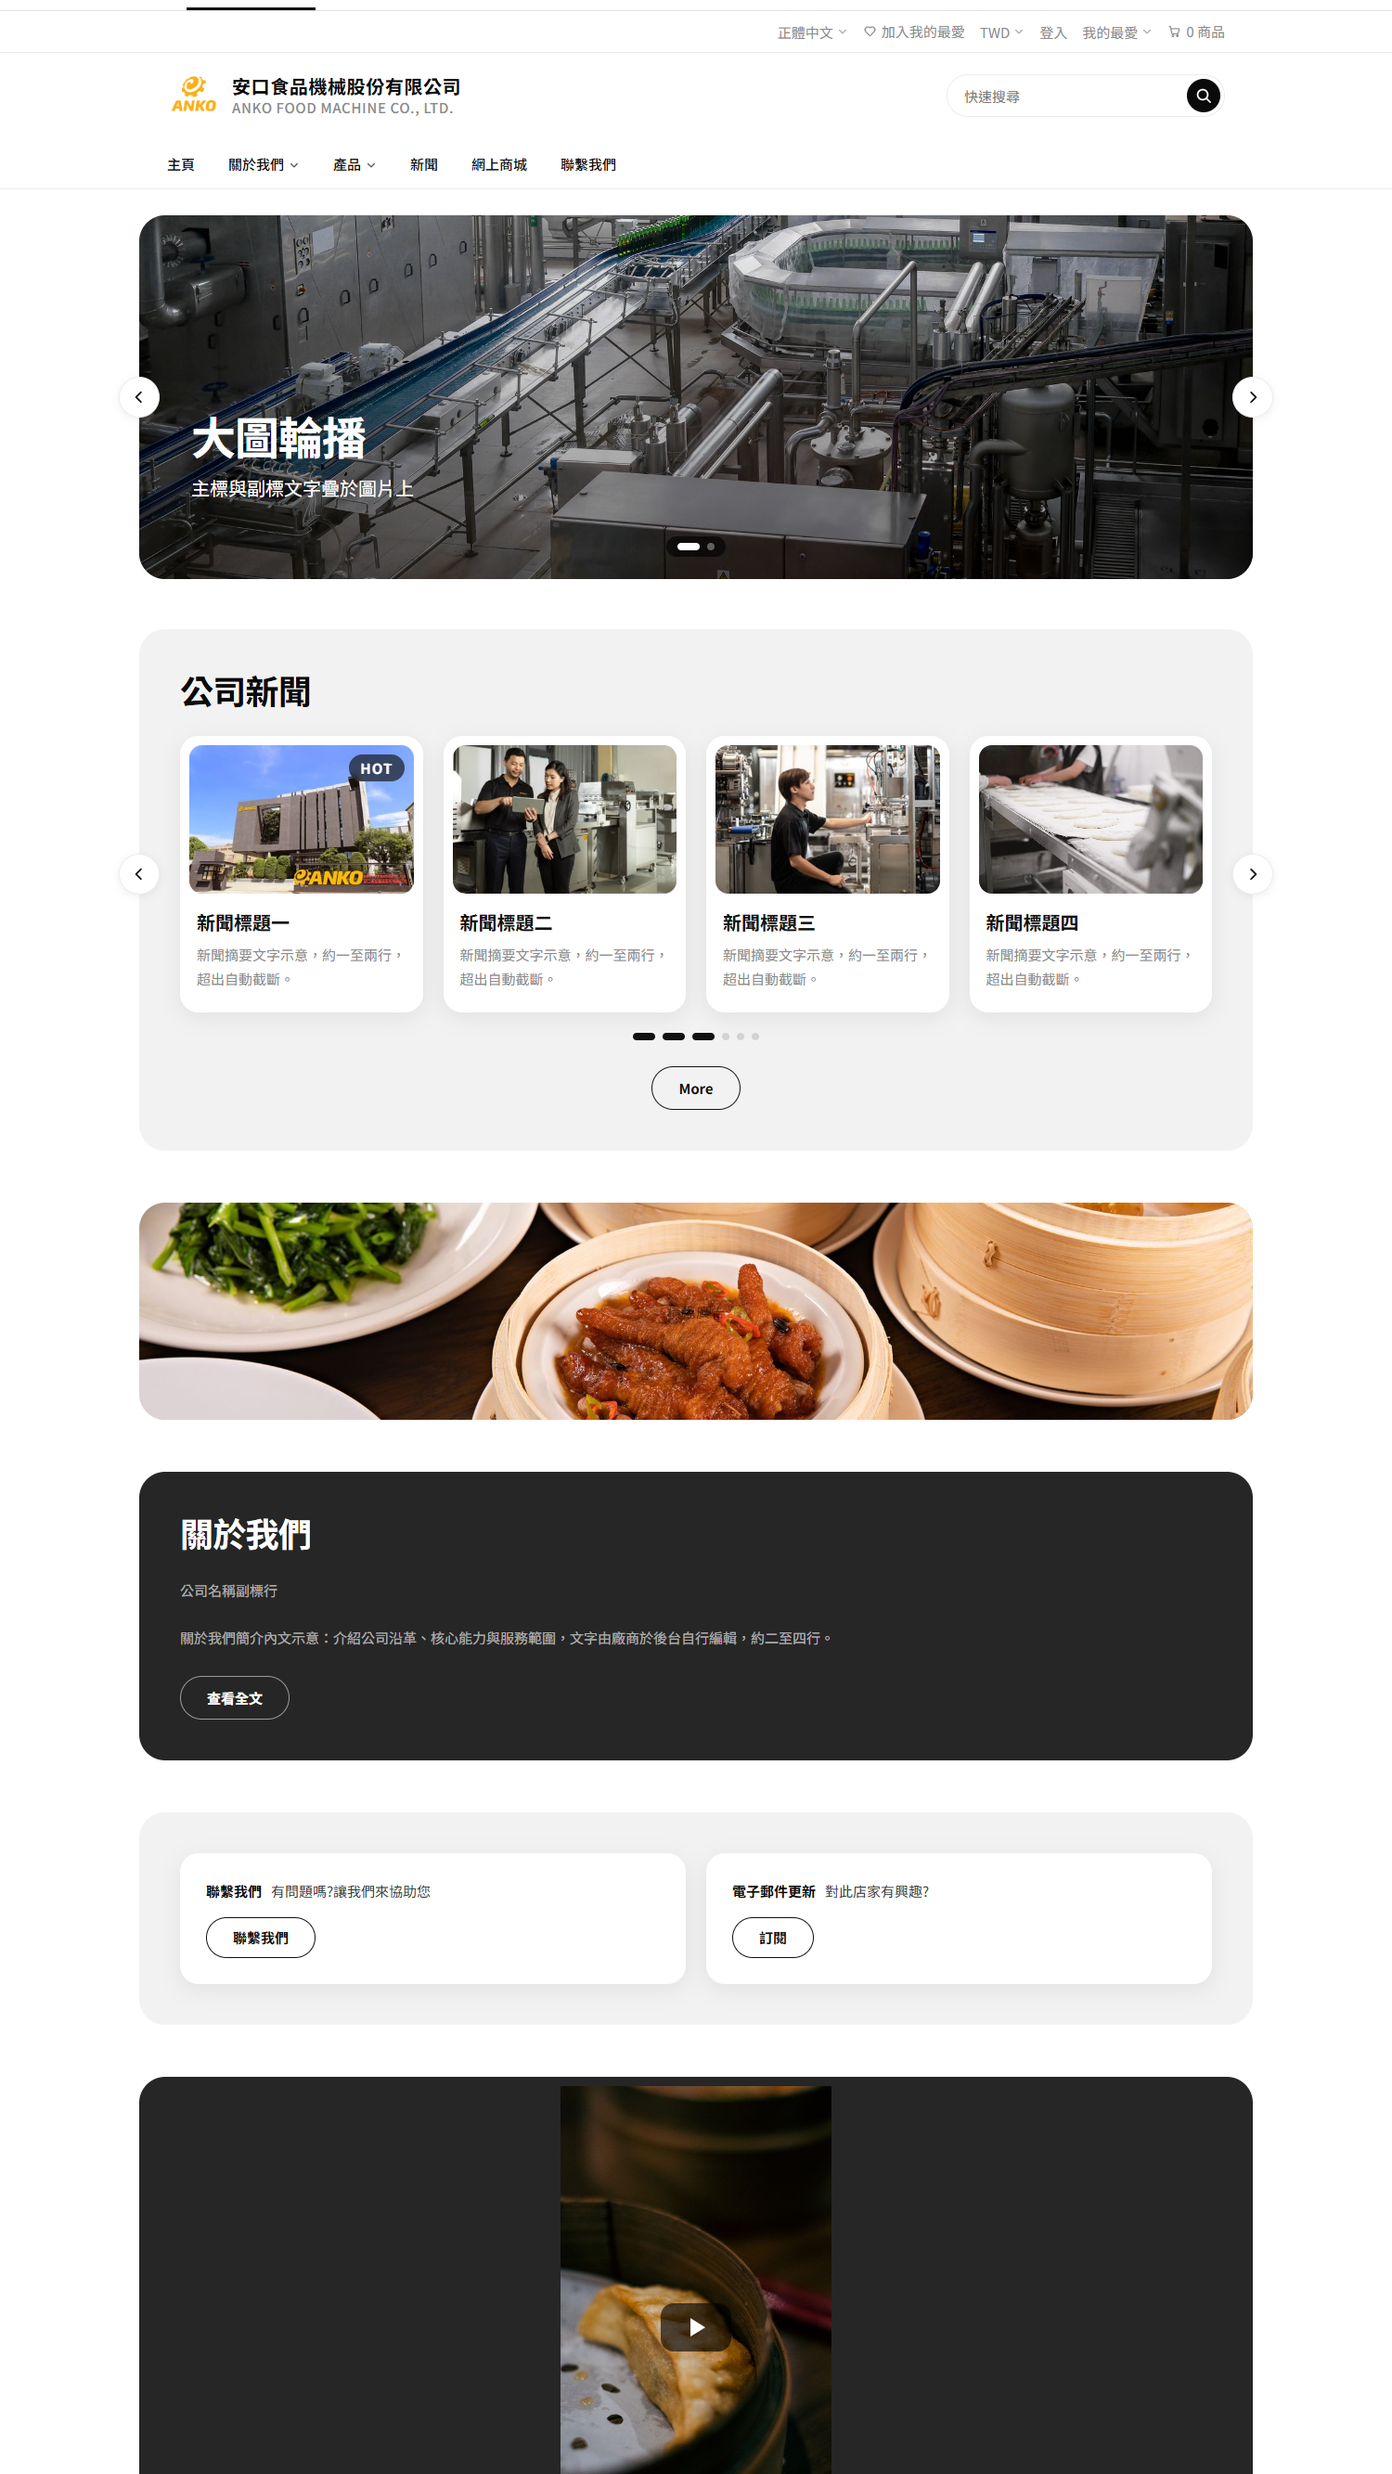
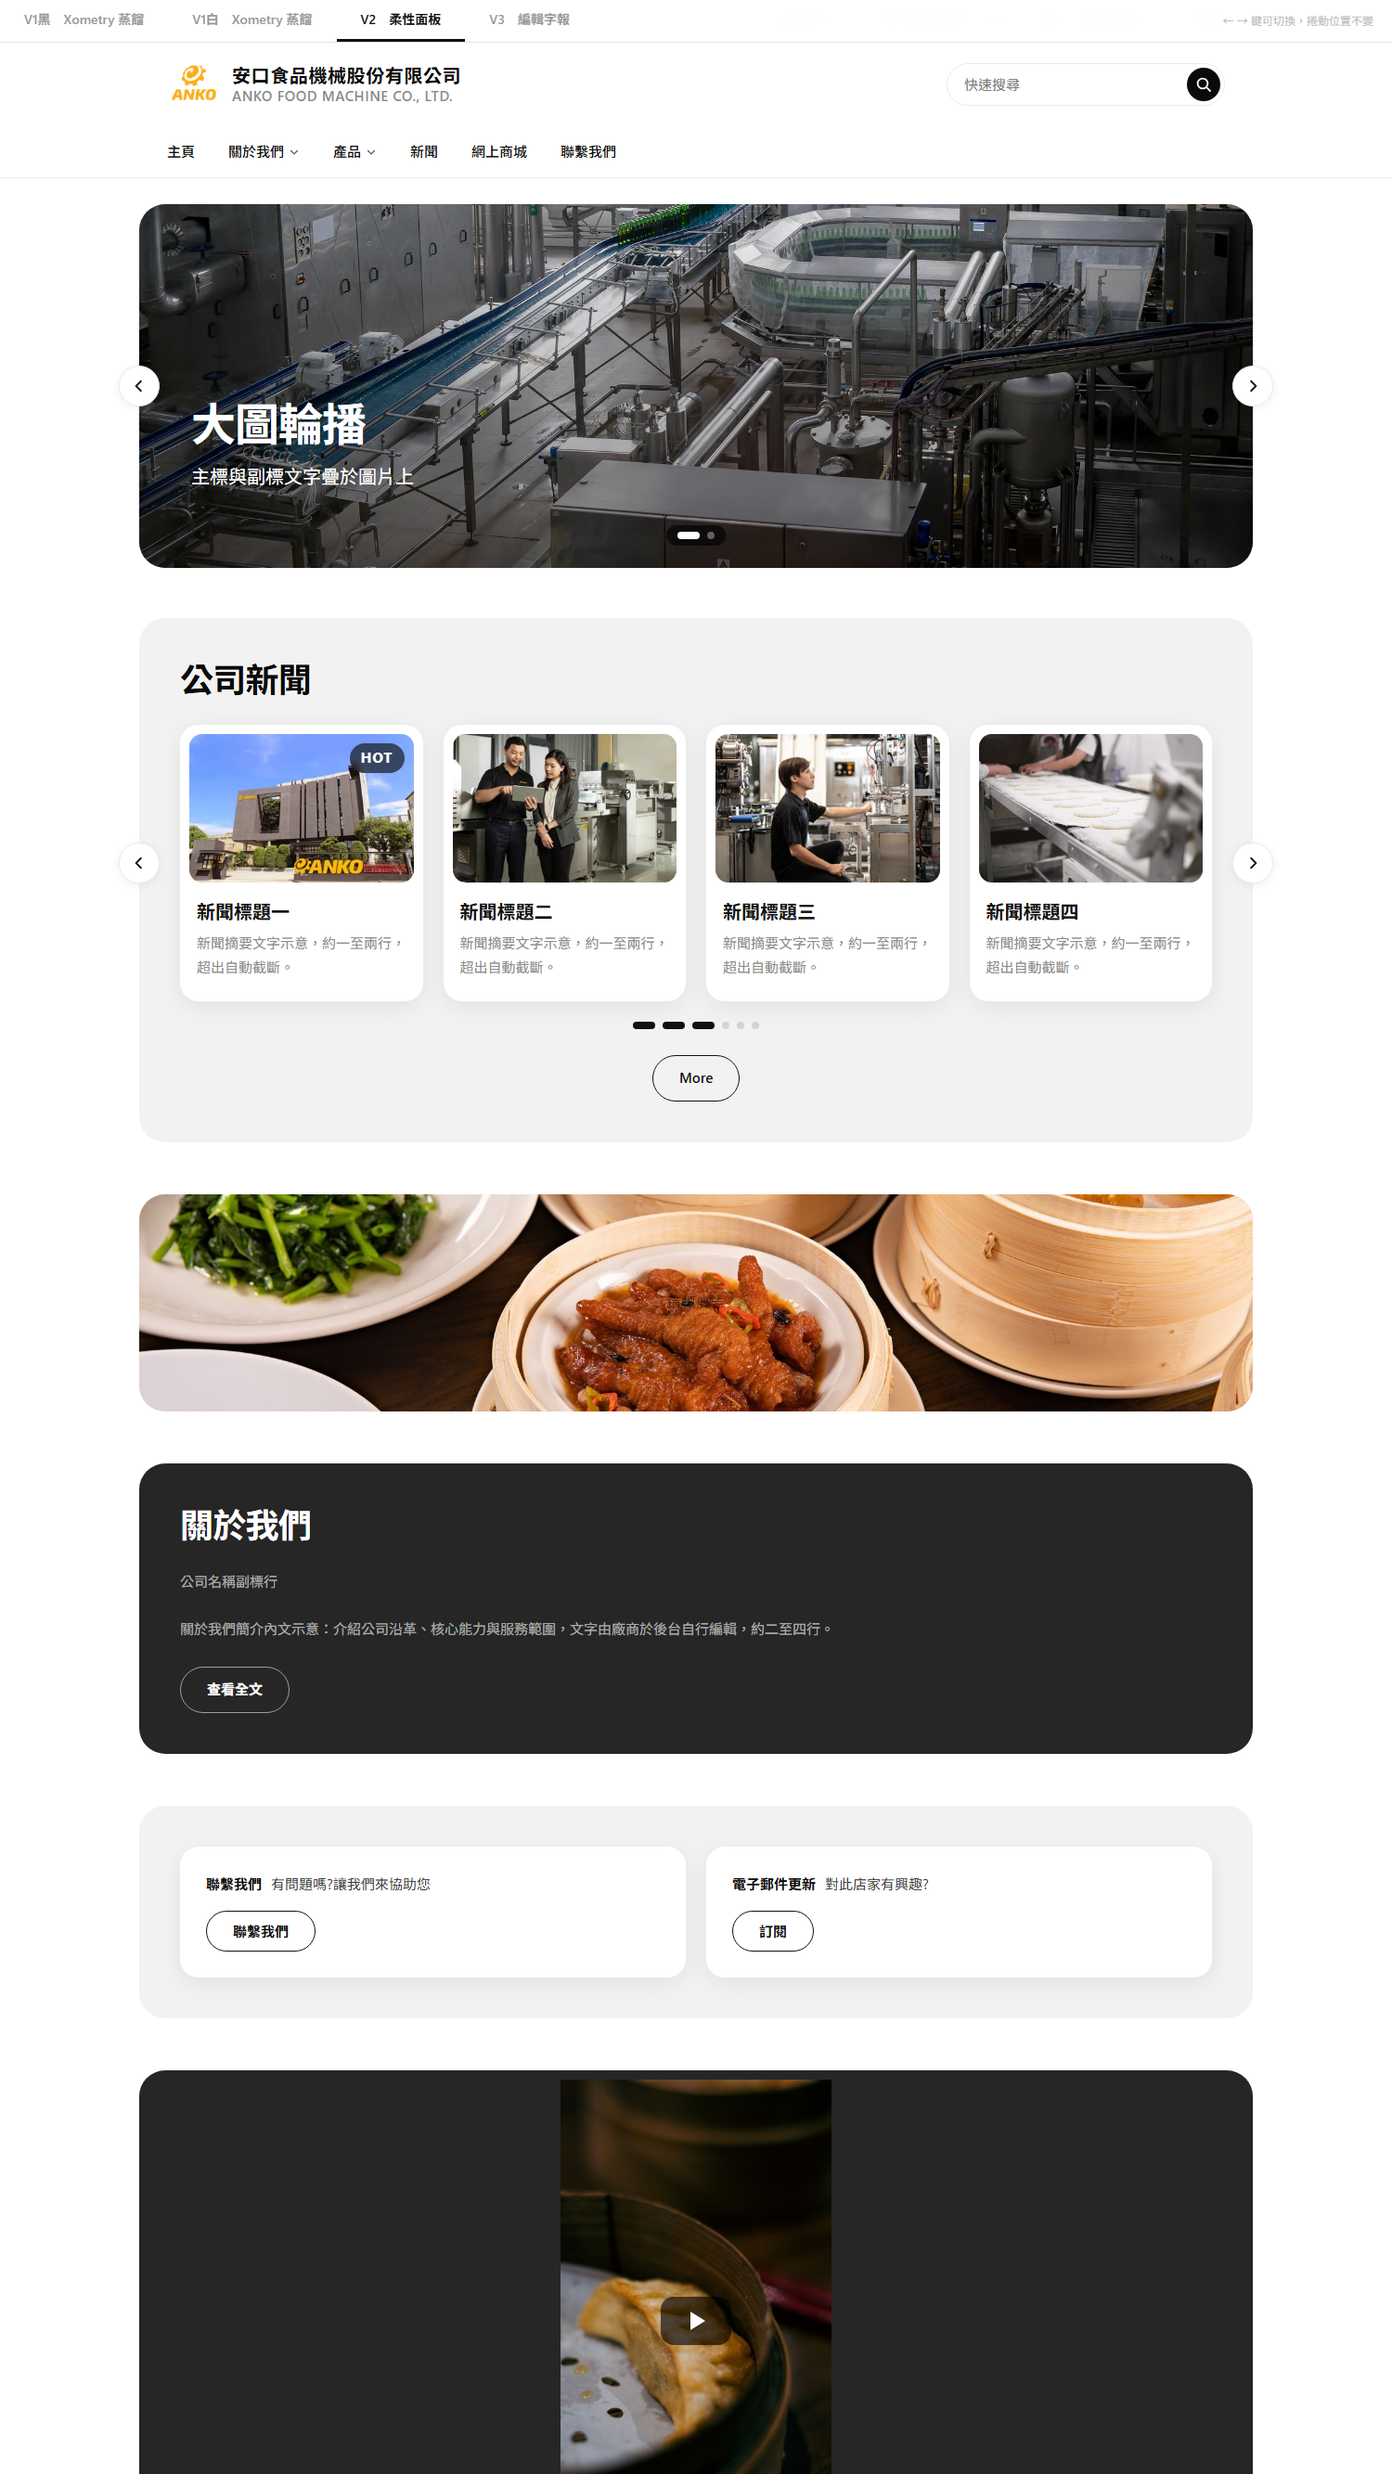
ep-demo/slides：0728 訪談簡報改四版定版上線——11 頁（P4 蒸餾三條＋V1黑白雙縮圖、P7 新增 V3 編輯字報、P8 四選項卡＋四縮圖、P9 對照 12 列×V1/V2/V3、P10 題10 五選項）；縮圖改 S1b/S1w/S2/S3（自四版合一 demo 產出），舊 S1 刪

diff --git a/ep-demo/slides/index.html b/ep-demo/slides/index.html
@@ -67,7 +67,7 @@ th{background:#F5F5F5;font-weight:700}
   <div style="flex:1;display:flex;flex-direction:column">
     <div style="flex:1">
       <p class="t4 mut b" style="margin-bottom:14px">今天談</p>
-      <p class="t3">1. 新版型風格設計（兩個版本選一版）<br>2. 新 Header＋Footer<br>3. 現有元件強化（多媒體／產品展示／圖文範本）<br>4. 新元件（聯絡我們商機表單）</p>
+      <p class="t3">1. 新版型風格設計（三款版型挑方向）<br>2. 新 Header＋Footer<br>3. 現有元件強化（多媒體／產品展示／圖文範本）<br>4. 新元件（聯絡我們商機表單）</p>
     </div>
     <div style="border-top:1px solid #E5E5E5;padding-top:28px">
       <p class="t4 mut b" style="margin-bottom:14px">之後談</p>
@@ -82,15 +82,25 @@ th{background:#F5F5F5;font-weight:700}
   <p class="t3">1. 新版型風格設計<br>2. 新 Header＋Footer 設計<br>3. 現有 8 元件配合調整<br>4. YT Short 可在首頁播放（多媒體輪播）<br>5. 產品展示 tab 呈現<br>6. 圖文模板新範本（CTA 樣式一／二＋數據統計）<br>7. Contact us 表單元件（聯絡電話＋商機表單）</p>
 </section>
 
-<!-- P4 V1｜字級 32/20 -->
+<!-- P4 V1｜字級 32/20/14 -->
 <section class="slide">
   <h2 class="pt">V1：Xometry 的黑白轉譯</h2>
-  <div style="flex:1;display:flex;gap:64px;align-items:flex-start">
+  <div style="flex:1;display:flex;gap:56px;align-items:flex-start">
     <div style="flex:1">
       <p class="t3 b" style="margin-bottom:20px">參考 Xometry 蒸餾出的設計邏輯：</p>
-      <p class="t3">1. 區塊之間不畫線，用滿版底色和留白切段<br>2. 標題置中開場、卡片內文字靠左<br>3. 滿版色帶直角，圓角只給卡片與按鈕</p>
+      <p class="t3">1. 亮暗色帶交錯分段，深色帶當重音<br>2. 卡片用陰影浮起，整頁不畫框線<br>3. 標題置中開場、卡片內文字靠左</p>
+      <p class="t4 mut" style="margin-top:20px">本版有黑、白兩種色帶配置，現場切換比較</p>
     </div>
-    <div class="shot" style="width:281px;height:500px"><span class="lab">S1</span><img src="img/S1.png" alt="" onerror="this.style.display='none'"></div>
+    <div style="display:flex;gap:16px">
+      <div style="text-align:center">
+        <div class="shot" style="width:220px;height:391px"><span class="lab">S1b</span><img src="img/S1b.png" alt="" onerror="this.style.display='none'"></div>
+        <p class="t4 mut" style="margin-top:8px">V1黑</p>
+      </div>
+      <div style="text-align:center">
+        <div class="shot" style="width:220px;height:391px"><span class="lab">S1w</span><img src="img/S1w.png" alt="" onerror="this.style.display='none'"></div>
+        <p class="t4 mut" style="margin-top:8px">V1白</p>
+      </div>
+    </div>
   </div>
 </section>
 
@@ -123,56 +133,80 @@ th{background:#F5F5F5;font-weight:700}
   </div>
 </section>
 
-<!-- P7 風格怎麼選｜字級 32/20/14（上：可點選選項卡；下：兩版縮圖） -->
+<!-- P7 V3｜字級 32/20（與 P4/P6 同構） -->
+<section class="slide">
+  <h2 class="pt">V3：編輯字報</h2>
+  <div style="flex:1;display:flex;gap:64px;align-items:flex-start">
+    <div style="flex:1">
+      <p class="t3 b" style="margin-bottom:20px">同一份骨架、以報刊排印語彙設計：</p>
+      <p class="t3">1. 區塊用粗線和編號分段，像一份黑白刊物<br>2. 大字量體當主角，標題與數字放大搶眼<br>3. 全部直角硬邊，線條分段、密度高</p>
+    </div>
+    <div class="shot" style="width:281px;height:500px"><span class="lab">S3</span><img src="img/S3.png" alt="" onerror="this.style.display='none'"></div>
+  </div>
+</section>
+
+<!-- P8 風格怎麼選｜字級 32/20/14（上：可點選選項卡；下：四版縮圖） -->
 <section class="slide">
   <h2 class="pt">風格怎麼選</h2>
-  <div style="display:flex;gap:24px">
-    <div class="pick" style="flex:1;border:1px solid #E5E5E5;padding:28px 32px">
+  <div style="display:flex;gap:16px">
+    <div class="pick" style="flex:1;border:1px solid #E5E5E5;padding:24px 24px">
       <p class="t2">V1　穩重</p>
-      <p class="t4 mut" style="margin-top:10px">適合機械、零組件、B2B 製造</p>
+      <p class="t4 mut" style="margin-top:10px">黑、白兩種色帶配置<br>適合機械、零組件、B2B 製造</p>
     </div>
-    <div class="pick" style="flex:1;border:1px solid #E5E5E5;padding:28px 32px">
+    <div class="pick" style="flex:1;border:1px solid #E5E5E5;padding:24px 24px">
       <p class="t2">V2　親和</p>
-      <p class="t4 mut" style="margin-top:10px">適合消費品、服務業、多品項通路</p>
+      <p class="t4 mut" style="margin-top:10px">圓角面板、正圓膠囊<br>適合消費品、服務業、多品項通路</p>
     </div>
-    <div class="pick" style="flex:1;border:1px solid #E5E5E5;padding:28px 32px">
+    <div class="pick" style="flex:1;border:1px solid #E5E5E5;padding:24px 24px">
+      <p class="t2">V3　鮮明</p>
+      <p class="t4 mut" style="margin-top:10px">報刊排印、大字編號<br>適合想突出品牌個性的廠商</p>
+    </div>
+    <div class="pick" style="flex:1;border:1px solid #E5E5E5;padding:24px 24px">
       <p class="t2">設計混搭</p>
-      <p class="t4 mut" style="margin-top:10px">以一版為主體、局部採另一版</p>
+      <p class="t4 mut" style="margin-top:10px">以一版為主體<br>局部採另一版做法</p>
     </div>
   </div>
-  <div style="flex:1;display:flex;gap:56px;align-items:center;justify-content:center;margin-top:28px">
+  <div style="flex:1;display:flex;gap:40px;align-items:center;justify-content:center;margin-top:24px">
     <div style="text-align:center">
-      <div class="shot" style="width:180px;height:320px"><span class="lab">S1</span><img src="img/S1.png" alt="" onerror="this.style.display='none'"></div>
-      <p class="t4 mut" style="margin-top:8px">V1</p>
+      <div class="shot" style="width:150px;height:267px"><span class="lab">S1b</span><img src="img/S1b.png" alt="" onerror="this.style.display='none'"></div>
+      <p class="t4 mut" style="margin-top:8px">V1黑</p>
     </div>
     <div style="text-align:center">
-      <div class="shot" style="width:180px;height:320px"><span class="lab">S2</span><img src="img/S2.png" alt="" onerror="this.style.display='none'"></div>
+      <div class="shot" style="width:150px;height:267px"><span class="lab">S1w</span><img src="img/S1w.png" alt="" onerror="this.style.display='none'"></div>
+      <p class="t4 mut" style="margin-top:8px">V1白</p>
+    </div>
+    <div style="text-align:center">
+      <div class="shot" style="width:150px;height:267px"><span class="lab">S2</span><img src="img/S2.png" alt="" onerror="this.style.display='none'"></div>
       <p class="t4 mut" style="margin-top:8px">V2</p>
+    </div>
+    <div style="text-align:center">
+      <div class="shot" style="width:150px;height:267px"><span class="lab">S3</span><img src="img/S3.png" alt="" onerror="this.style.display='none'"></div>
+      <p class="t4 mut" style="margin-top:8px">V3</p>
     </div>
   </div>
 </section>
 
-<!-- P8 差異對照｜字級 32/14（V1／V2 儲存格可點選） -->
+<!-- P9 差異對照｜字級 32/14（V1／V2／V3 儲存格可點選） -->
 <section class="slide">
-  <h2 class="pt" style="margin-bottom:20px">V1 × V2 差異對照</h2>
+  <h2 class="pt" style="margin-bottom:20px">V1 × V2 × V3 差異對照</h2>
   <table style="table-layout:fixed">
-    <tr><th style="width:160px">項目</th><th>V1</th><th>V2</th></tr>
-    <tr><td>排版軸線</td><td class="pick">置中開場、卡內文字靠左</td><td class="pick">全部靠左</td></tr>
-    <tr><td>分段方式</td><td class="pick">滿版淺灰帶切段</td><td class="pick">圓角面板</td></tr>
-    <tr><td>深色使用</td><td class="pick">全頁只有頁尾黑</td><td class="pick">深面板點綴＋頁尾黑</td></tr>
-    <tr><td>圓角</td><td class="pick">方圓角（工業感）</td><td class="pick">正圓膠囊（親和感）</td></tr>
-    <tr><td>分頁 tab</td><td class="pick">淺灰槽＋黑色滑塊</td><td class="pick">文字底線</td></tr>
-    <tr><td>陰影</td><td class="pick">幾乎不用</td><td class="pick">柔影＋滑過浮起</td></tr>
-    <tr><td>留白</td><td class="pick">大（大器）</td><td class="pick">緊湊（密度高）</td></tr>
-    <tr><td>輪播箭頭</td><td class="pick">照現況兩種位置</td><td class="pick">統一騎在邊線上</td></tr>
-    <tr><td>大圖文字</td><td class="pick">置中疊圖</td><td class="pick">壓左下</td></tr>
-    <tr><td>標記</td><td class="pick">方角黑標</td><td class="pick">膠囊黑標</td></tr>
-    <tr><td>產品卡</td><td class="pick">文字壓在圖上</td><td class="pick">文字在圖下</td></tr>
-    <tr><td>CTA一背景</td><td class="pick">淺色照片＋白遮罩黑字</td><td class="pick">同照片＋黑遮罩白字</td></tr>
+    <tr><th style="width:132px">項目</th><th>V1</th><th>V2</th><th>V3</th></tr>
+    <tr><td>排版軸線</td><td class="pick">置中開場、卡內文字靠左</td><td class="pick">全部靠左</td><td class="pick">全部靠左、編輯欄式</td></tr>
+    <tr><td>分段方式</td><td class="pick">滿版色帶交錯切段</td><td class="pick">圓角面板</td><td class="pick">粗頂線＋區塊編號</td></tr>
+    <tr><td>深色使用</td><td class="pick">黑版四條深帶／白版只有頁尾黑</td><td class="pick">深面板點綴＋頁尾黑</td><td class="pick">只有頁尾黑</td></tr>
+    <tr><td>圓角</td><td class="pick">方圓角＋藥丸（工業感）</td><td class="pick">正圓膠囊（親和感）</td><td class="pick">全部直角（硬邊）</td></tr>
+    <tr><td>分頁 tab</td><td class="pick">黑底藥丸槽＋白滑塊</td><td class="pick">文字底線</td><td class="pick">文字底線、與標題同列</td></tr>
+    <tr><td>陰影</td><td class="pick">卡片陰影浮起</td><td class="pick">柔影＋滑過浮起</td><td class="pick">不用陰影、線條分段</td></tr>
+    <tr><td>留白</td><td class="pick">緊湊均勻</td><td class="pick">最緊湊</td><td class="pick">疏密對比大</td></tr>
+    <tr><td>輪播箭頭</td><td class="pick">照現況兩種位置</td><td class="pick">統一騎在邊線上</td><td class="pick">方形硬框</td></tr>
+    <tr><td>大圖文字</td><td class="pick">置中疊圖</td><td class="pick">壓左下</td><td class="pick">壓左下、特大字</td></tr>
+    <tr><td>標記</td><td class="pick">方角黑標</td><td class="pick">膠囊黑標</td><td class="pick">直角黑標</td></tr>
+    <tr><td>產品卡</td><td class="pick">文字壓在圖上</td><td class="pick">文字在圖下</td><td class="pick">文字壓在圖上＋細硬框</td></tr>
+    <tr><td>CTA一背景</td><td class="pick">黑版深色帶白字／白版淺色照片黑字</td><td class="pick">照片＋黑遮罩白字</td><td class="pick">照片＋白遮罩、文字靠左</td></tr>
   </table>
 </section>
 
-<!-- P9 今天的決議｜字級 32/14（結果欄選項可點選） -->
+<!-- P10 今天的決議｜字級 32/14（結果欄選項可點選） -->
 <section class="slide">
   <h2 class="pt" style="margin-bottom:20px">今天的決議</h2>
   <table>
@@ -186,12 +220,12 @@ th{background:#F5F5F5;font-weight:700}
     <tr><td>7</td><td>桌機是否點按複製號碼</td><td><span class="opt">點按複製號碼</span><span class="sep">／</span><span class="opt">僅顯示號碼</span></td></tr>
     <tr><td>8</td><td>頁尾是否保留聯絡我們區塊</td><td><span class="opt">保留（做成可開關）</span><span class="sep">／</span><span class="opt">不保留（以新表單為主）</span><span class="sep">／</span><span class="opt">其他</span></td></tr>
     <tr><td>9</td><td>認證徽章是否移至頁尾</td><td><span class="opt">移至頁尾（數量隨認證動態）</span><span class="sep">／</span><span class="opt">維持頁首</span></td></tr>
-    <tr><td>10</td><td>風格方向</td><td><span class="opt">V1</span><span class="sep">／</span><span class="opt">V2</span><span class="sep">／</span><span class="opt">設計混搭（項目於差異對照頁點選）</span></td></tr>
+    <tr><td>10</td><td>風格方向</td><td><span class="opt">V1黑</span><span class="sep">／</span><span class="opt">V1白</span><span class="sep">／</span><span class="opt">V2</span><span class="sep">／</span><span class="opt">V3</span><span class="sep">／</span><span class="opt">設計混搭（項目於差異對照頁點選）</span></td></tr>
   </table>
   <p class="t4 mut" style="margin-top:14px">未拍板的項目，會後以書面確認，於設計稿前收齊。</p>
 </section>
 
-<!-- P10 下一步｜字級 32/20 -->
+<!-- P11 下一步｜字級 32/20 -->
 <section class="slide">
   <h2 class="pt">下一步</h2>
   <p class="t3">1. 今天定調的風格，我們將整理成設計稿提供貴處審核。<br>2. 8/7 第二次訪談：SU 建站引導</p>
@@ -200,7 +234,7 @@ th{background:#F5F5F5;font-weight:700}
 </section>
 
 </div>
-<div id="pageNum">1 / 10</div>
+<div id="pageNum">1 / 11</div>
 <script>
 (function(){
 var slides=[].slice.call(document.querySelectorAll('.slide')),cur=0,N=slides.length;
